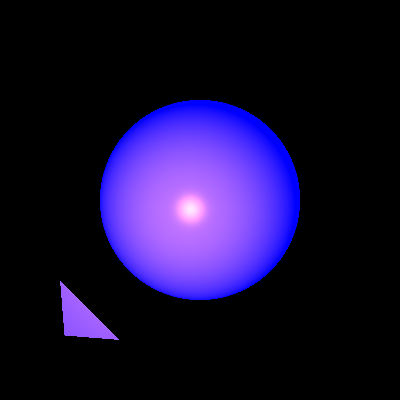
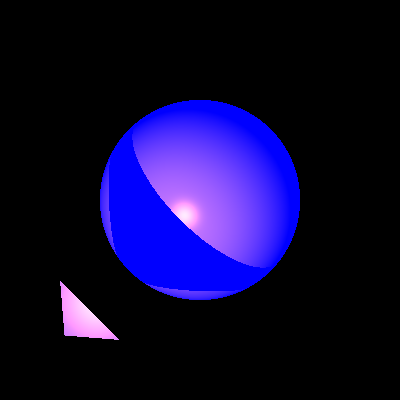
Fin 07.1

Changed region(s): [[0.27, 0.33, 0.66, 0.75], [0.48, 0.27, 0.75, 0.54], [0.15, 0.69, 0.3, 0.87]]

diff --git a/src/unittests/ShadowTests.java b/src/unittests/ShadowTests.java
@@ -135,7 +135,7 @@ public class ShadowTests {
 						.setMaterial(new Material().setKd(0.5).setKs(0.5).setShininess(30)) //
 		);
 		scene.lights.add( //
-				new SpotLight(new Color(400, 240, 0), new Point3D(-100, -100, 200), new Vector(1, 1, -3)) //
+				new SpotLight(new Color(400, 240, 0), new Point3D(-75, -75, 65), new Vector(1, 1, -3)) //
 						.setKl(1E-5).setKq(1.5E-7));
 
 		Render render = new Render(). //
@@ -160,7 +160,7 @@ public class ShadowTests {
 						.setMaterial(new Material().setKd(0.5).setKs(0.5).setShininess(30)) //
 		);
 		scene.lights.add( //
-				new SpotLight(new Color(400, 240, 0), new Point3D(-100, -100, 200), new Vector(1, 1, -3)) //
+				new SpotLight(new Color(400, 240, 0), new Point3D(-85, -85, 100), new Vector(1, 1, -3)) //
 						.setKl(1E-5).setKq(1.5E-7));
 
 		Render render = new Render(). //
